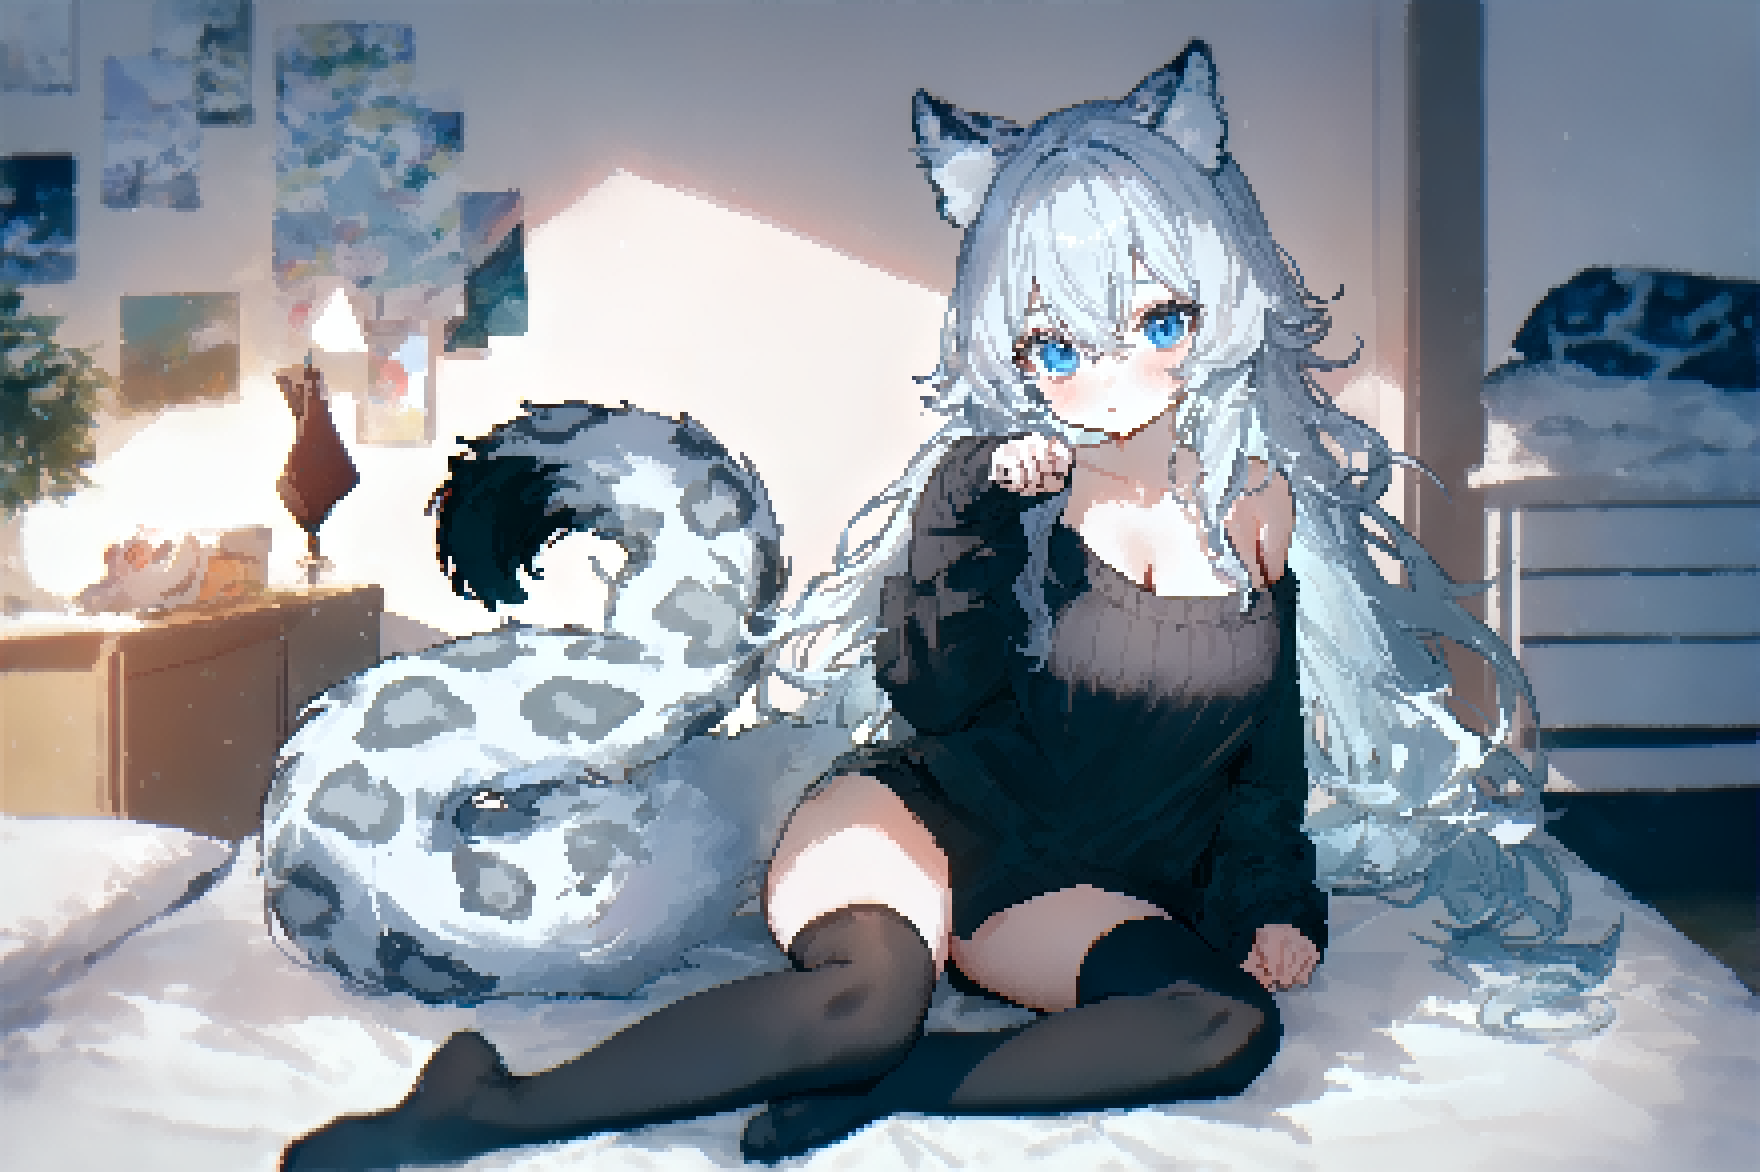
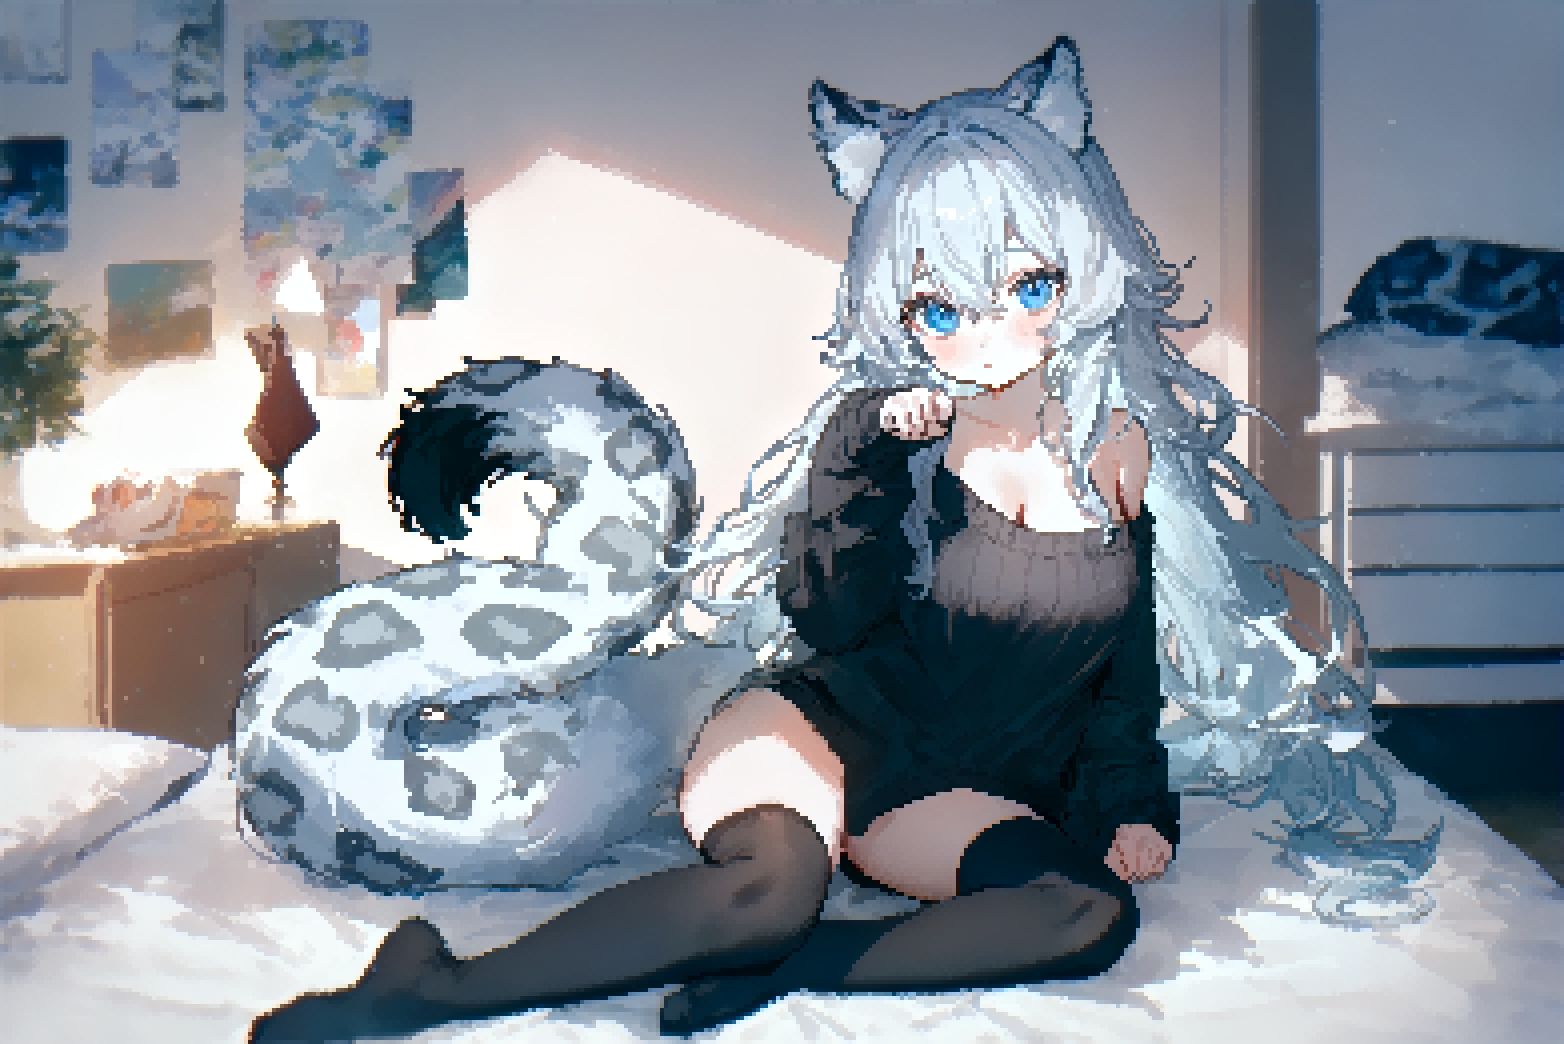
update demo for dithering

diff --git a/demo-torch.py b/demo-torch.py
@@ -49,7 +49,46 @@ if __name__ == "__main__":
     pixel_art.save("./img/snow-leopard-pixel.png")
 
     pixel_art_t = pixelize_pytorch(
-        pre_resize(img, target_size=360, patch_size=4).cuda(),
+        img_t,
+        target_size=target_size,
+        patch_size=patch_size,
+        thickness=thickness,
+        do_color_match=True,
+        do_quant=True,
+        K=128,
+        quant_mode="",
+    )
+    pixel_art = Image.fromarray(to_numpy(pixel_art_t))
+    pixel_art.save("./img/snow-leopard-pixel-128c.png")
+
+    pixel_art_t = pixelize_pytorch(
+        img_t,
+        target_size=target_size,
+        patch_size=patch_size,
+        thickness=thickness,
+        do_color_match=True,
+        do_quant=True,
+        K=128,
+        quant_mode="ordered",
+    )
+    pixel_art = Image.fromarray(to_numpy(pixel_art_t))
+    pixel_art.save("./img/snow-leopard-pixel-128c-d.png")
+
+    pixel_art_t = pixelize_pytorch(
+        img_t,
+        target_size=target_size,
+        patch_size=patch_size,
+        thickness=thickness,
+        do_color_match=True,
+        do_quant=True,
+        K=128,
+        quant_mode="error_diffusion",
+    )
+    pixel_art = Image.fromarray(to_numpy(pixel_art_t))
+    pixel_art.save("./img/snow-leopard-pixel-128c-ed.png")
+
+    pixel_art_t = pixelize_pytorch(
+        pre_resize(img, target_size=320, patch_size=4).cuda(),
         target_size=320,
         patch_size=4,
         thickness=3,
@@ -57,6 +96,45 @@ if __name__ == "__main__":
     )
     pixel_art = Image.fromarray(to_numpy(pixel_art_t))
     pixel_art.save("./img/snow-leopard-pixel-lg.png")
+
+    pixel_art_t = pixelize_pytorch(
+        pre_resize(img, target_size=320, patch_size=4).cuda(),
+        target_size=320,
+        patch_size=4,
+        thickness=3,
+        do_color_match=True,
+        do_quant=True,
+        K=128,
+        quant_mode="",
+    )
+    pixel_art = Image.fromarray(to_numpy(pixel_art_t))
+    pixel_art.save("./img/snow-leopard-pixel-lg-128c.png")
+
+    pixel_art_t = pixelize_pytorch(
+        pre_resize(img, target_size=320, patch_size=4).cuda(),
+        target_size=320,
+        patch_size=4,
+        thickness=3,
+        do_color_match=True,
+        do_quant=True,
+        K=128,
+        quant_mode="ordered",
+    )
+    pixel_art = Image.fromarray(to_numpy(pixel_art_t))
+    pixel_art.save("./img/snow-leopard-pixel-lg-128c-d.png")
+
+    pixel_art_t = pixelize_pytorch(
+        pre_resize(img, target_size=320, patch_size=4).cuda(),
+        target_size=320,
+        patch_size=4,
+        thickness=3,
+        do_color_match=True,
+        do_quant=True,
+        K=128,
+        quant_mode="error_diffusion",
+    )
+    pixel_art = Image.fromarray(to_numpy(pixel_art_t))
+    pixel_art.save("./img/snow-leopard-pixel-lg-128c-ed.png")
 
     print("Start speed test:")
     print(f"  {target_size=}")
@@ -70,5 +148,6 @@ if __name__ == "__main__":
             patch_size=patch_size,
             thickness=thickness,
             do_color_match=False,
+            do_quant=False,
         )
     print("Speed test done")
